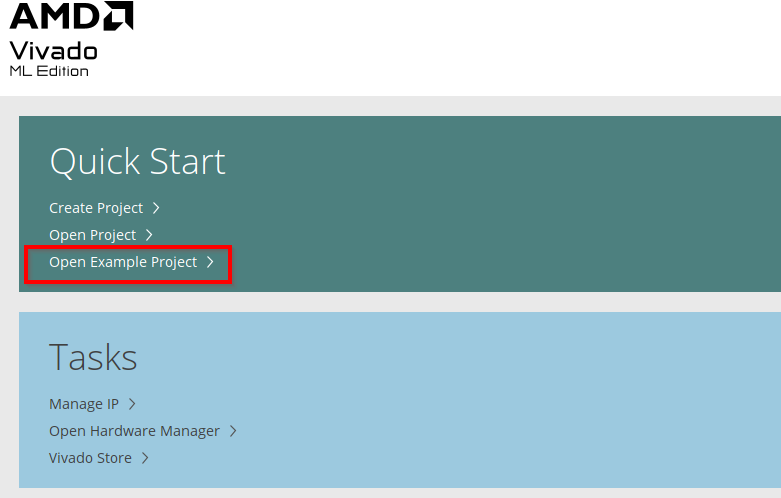
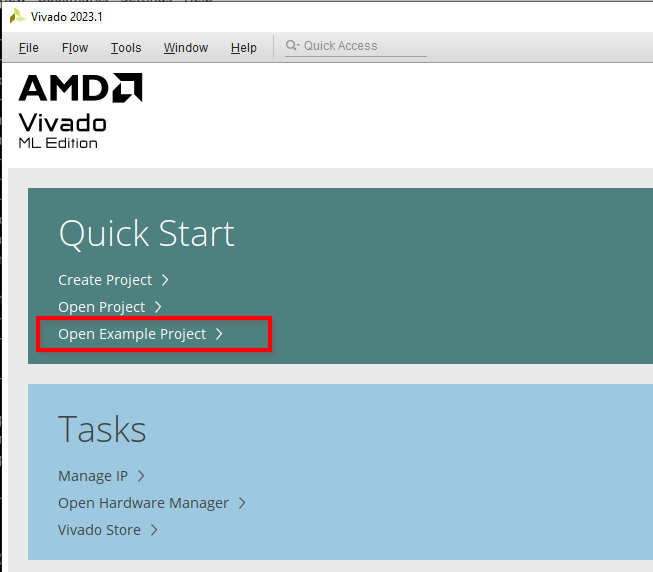
Updated Readme and screencaps

Changed region(s): [[0.0, 0.0, 1.0, 0.994]]

diff --git a/Device_Architecture_Tutorials/Versal/HW_Debug/IBERT_GTY/README.md b/Device_Architecture_Tutorials/Versal/HW_Debug/IBERT_GTY/README.md
@@ -15,11 +15,14 @@
 A design that is IBERT capable can be generated quickly using the CED.
 
 
-1. Launch Vivado 2023.1
-1. Select "Open Example Design" then click **Next** to proceed.
+1. Launch Vivado 2023.1 and select **Open Example Design** at the landing page.  Click **Next** to proceed.
+    ![](./images/01_open_example_project.png)
 1. In the **Select Project Template** window, scroll to the **Versal IBERT** template.  Click **Next**.
-1. _(Optional)_ If desired, enter a project name and choose a location for the project to be created.
-1. Select part for VCK190
+    _Note:  If the Versal IBERT example design is not present, click **Refresh**
+	![](./images/02_IBERT_Example_1.png)
+1. _(Optional)_ If desired, enter a project name and choose a location for the project to be created. 
+1. This design targets the VCK190 Evaluation Kit which has the XCVC1902-2MSEVSVA2197 Versal AI Core device.  In the part selection page, select: `xcvc1902-vsva2197-2MP-e-S` to target this part.
+    ![](./images/03_part_selection.png)
 1. The VCK190 has these GTs... (show screencap from UG)
 1. Select GTs
 
